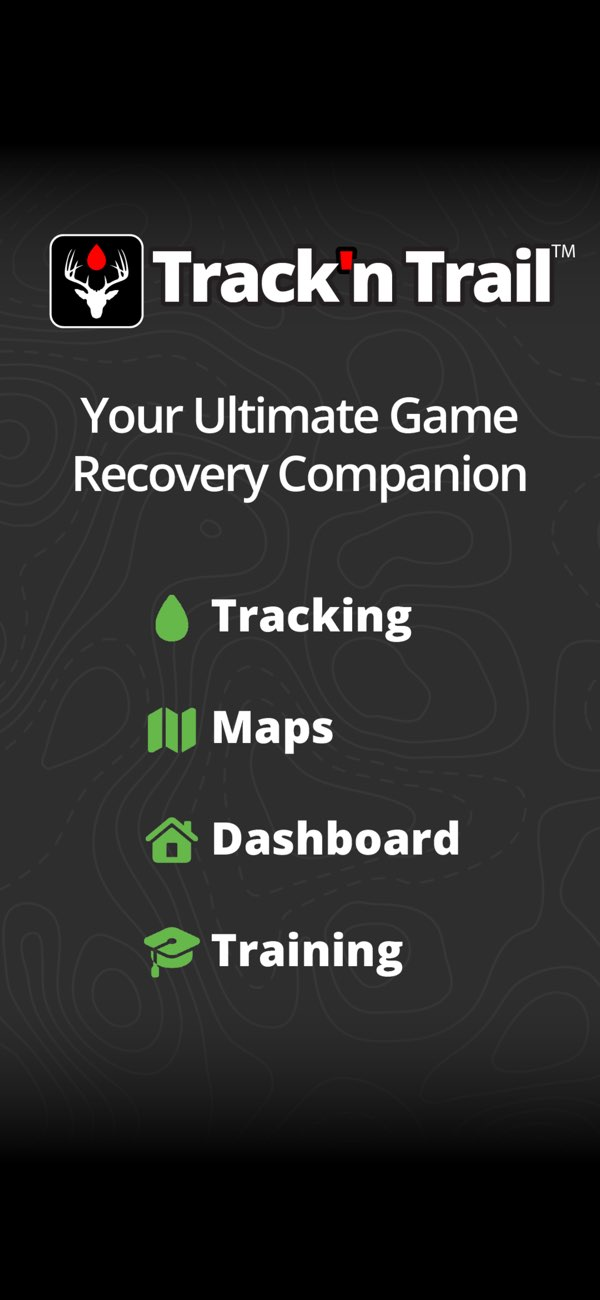
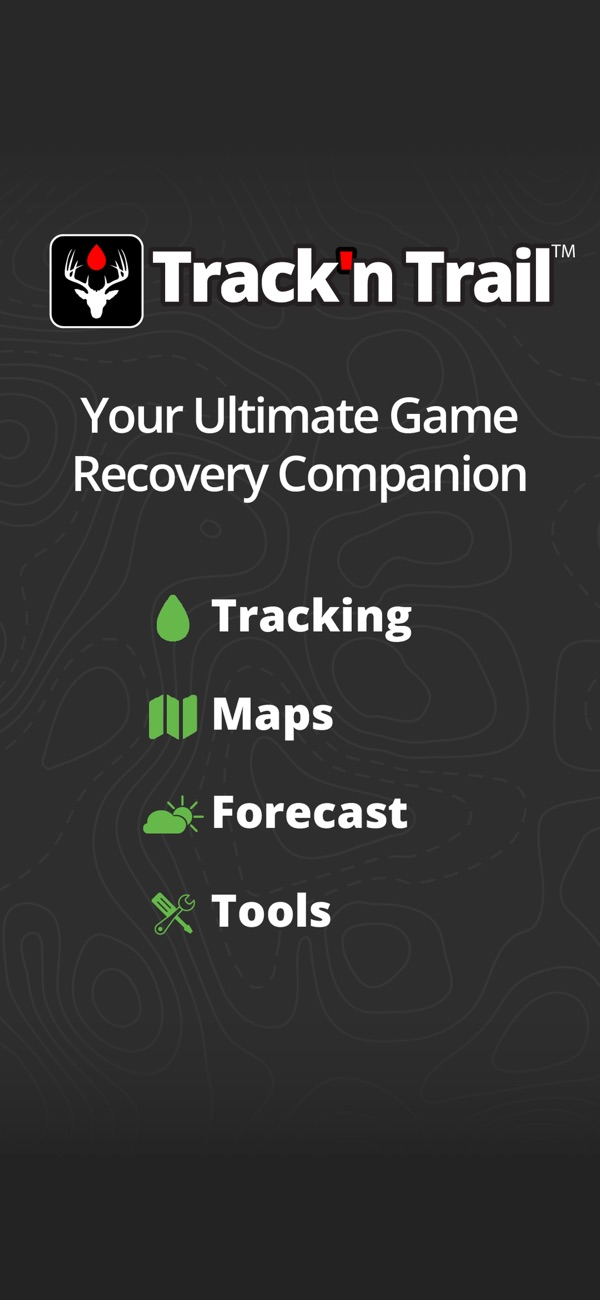
Re-add Track'n Trail to portfolio
Restore trackntrail.md from before e285b47 at its August slot (order 6,
between Rawdogging Boredom and Site:See) and re-feature it in apps.json.
Swap in the current App Store screenshots (intro, blood detector, 3D
maps) and refresh the description from the live listing: 4.7 stars with
2,800+ ratings, land ownership data and 3D shot visualizer.

Claude-Session: https://claude.ai/code/session_01Kw9QxL3ZL8YiuybV1LM7J3

diff --git a/src/content/projects/trackntrail.md b/src/content/projects/trackntrail.md
@@ -1,0 +1,20 @@
+---
+title: "Track'n Trail"
+slug: "trackntrail"
+tagline: "Detect | Alert | Recover"
+primaryColor: "#FF0000"
+tag: "0→1: Built from scratch"
+order: 6
+storeLinks:
+  appStore: "https://apps.apple.com/us/app/track-n-trail-hunting-maps/id6746768148"
+  playStore: "https://play.google.com/store/apps/details?id=com.trackntrailapp.trackntrail"
+screenshots:
+  - src: "/screenshots/trackntrail/screens/1.jpg"
+    alt: "Track'n Trail app intro"
+  - src: "/screenshots/trackntrail/screens/2.jpg"
+    alt: "Blood tracking UI"
+  - src: "/screenshots/trackntrail/screens/3.jpg"
+    alt: "3D hunting maps with waypoints"
+---
+
+Patent-pending hunting app that uses AI-powered machine vision to detect blood trails through your smartphone camera. Combines blood detection technology with hunting maps and land ownership data for all 50 states, weather forecasting, and a 3D shot visualizer. 4.7 stars with 2,800+ ratings.
